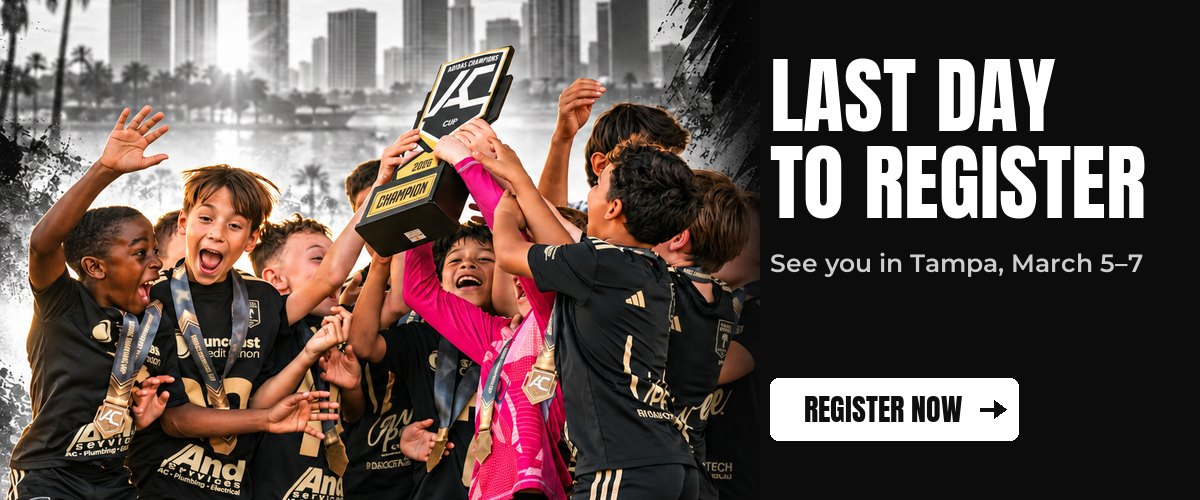
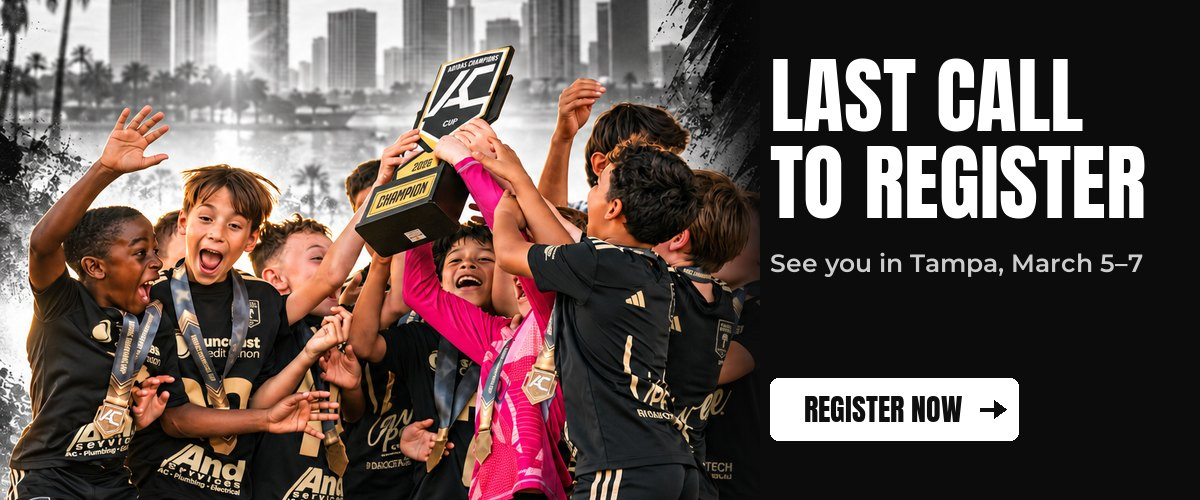
ACC: E16 y SMS 3-6 sin fecha de cierre (05-11)

Changed region(s): [[0.7708, 0.12, 0.925, 0.27]]

diff --git a/index.html b/index.html
@@ -72,7 +72,7 @@ footer{margin-top:44px;color:var(--muted);font-size:14px;border-top:1px solid va
 
 <h2>Calendario</h2>
 <p class="lead" style="margin-top:0">Correos los miércoles hasta diciembre (Miami Classic tiene envíos programados los martes y jueves hasta el 24-nov a la misma base) y los martes desde enero; en las dos últimas semanas, dos por semana. La inscripción cierra 21 días antes del torneo, como en 2026. Cada SMS sale el día siguiente a un correo clave. Sin envíos en Acción de Gracias ni del 16 de diciembre al 4 de enero.</p>
-<div class="tabla"><table class="cal"><tbody><tr class="cab"><td>Fecha</td><td>Canal</td><td>Pieza</td><td>Asunto / texto</td><td class="num2">Se envía a</td></tr><tr class="email"><td class="fn">miércoles 28 oct 2026</td><td><span class="chip email">Email</span></td><td>1. Apertura de inscripciones</td><td class="as">Adidas Champions Cup 2027: registration is open</td><td class="num2">~1.800</td></tr><tr class="sms"><td class="fn">jueves 29 oct 2026</td><td><span class="chip sms">SMS</span></td><td>SMS 1</td><td class="as">Adidas Champions Cup 2027 registration is open! Tampa, March 5-7. Register your team:</td><td class="num2">564</td></tr><tr class="email"><td class="fn">miércoles 4 nov 2026</td><td><span class="chip email">Email</span></td><td>2. Recuerdo de 2026 (fotos reales)</td><td class="as">Relive the 2026 Adidas Champions Cup</td><td class="num2">~1.800</td></tr><tr class="email"><td class="fn">miércoles 11 nov 2026</td><td><span class="chip email">Email</span></td><td>3. 5 razones (para coaches y directores)</td><td class="as">5 reasons coaches choose the Champions Cup</td><td class="num2">~1.800</td></tr><tr class="email"><td class="fn">miércoles 18 nov 2026</td><td><span class="chip email">Email</span></td><td>4. Equipos femeninos</td><td class="as">Girls teams: your stage in Tampa</td><td class="num2">~1.800</td></tr><tr class="email"><td class="fn">miércoles 2 dic 2026</td><td><span class="chip email">Email</span></td><td>5. Más que un torneo (experiencia 360°)</td><td class="as">Not just a tournament: a full weekend in Tampa</td><td class="num2">~1.800</td></tr><tr class="email"><td class="fn">miércoles 9 dic 2026</td><td><span class="chip email">Email</span></td><td>6. Clubes que jugaron en 2026 (prueba social)</td><td class="as">The clubs that played Tampa in 2026</td><td class="num2">~1.800</td></tr><tr class="sms"><td class="fn">jueves 10 dic 2026</td><td><span class="chip sms">SMS</span></td><td>SMS 2</td><td class="as">Adidas Champions Cup, Tampa, Mar 5-7: play the best teams in Florida. Register:</td><td class="num2">564</td></tr><tr class="email"><td class="fn">miércoles 16 dic 2026</td><td><span class="chip email">Email</span></td><td>7. Las canchas</td><td class="as">Where you will play: the 2027 fields</td><td class="num2">~1.800</td></tr><tr class="email"><td class="fn">martes 5 ene 2027</td><td><span class="chip email">Email</span></td><td>8. Planear la temporada de primavera</td><td class="as">Plan your spring: March 5–7 in Tampa</td><td class="num2">~1.800</td></tr><tr class="email"><td class="fn">martes 12 ene 2027</td><td><span class="chip email">Email</span></td><td>9. Los mejores equipos de Florida (competencia)</td><td class="as">Play against the best teams in Florida</td><td class="num2">~1.800</td></tr><tr class="sms"><td class="fn">miércoles 13 ene 2027</td><td><span class="chip sms">SMS</span></td><td>SMS 3</td><td class="as">One month left to register for the Adidas Champions Cup in Tampa, Mar 5-7:</td><td class="num2">564</td></tr><tr class="email"><td class="fn">martes 19 ene 2027</td><td><span class="chip email">Email</span></td><td>10. Foco U8–U12 (7v7 y 9v9)</td><td class="as">U8–U12: 7v7 and 9v9 at the Champions Cup</td><td class="num2">~1.800</td></tr><tr class="email"><td class="fn">martes 26 ene 2027</td><td><span class="chip email">Email</span></td><td>11. Foco U13–U19 (11v11)</td><td class="as">U13–U19: 11v11 in Tampa this March</td><td class="num2">~1.800</td></tr><tr class="email"><td class="fn">jueves 28 ene 2027</td><td><span class="chip email">Email</span></td><td>12. Quedan 2 semanas</td><td class="as">2 weeks left to register</td><td class="num2">~1.800</td></tr><tr class="sms"><td class="fn">viernes 29 ene 2027</td><td><span class="chip sms">SMS</span></td><td>SMS 4</td><td class="as">2 weeks left! Adidas Champions Cup registration closes Feb 12. Register:</td><td class="num2">564</td></tr><tr class="email"><td class="fn">martes 2 feb 2027</td><td><span class="chip email">Email</span></td><td>13. Cómo es el fin de semana</td><td class="as">What your weekend in Tampa looks like</td><td class="num2">~1.800</td></tr><tr class="email"><td class="fn">lunes 8 feb 2027</td><td><span class="chip email">Email</span></td><td>14. Queda 1 semana</td><td class="as">1 week left: registration closes February 12</td><td class="num2">~1.800</td></tr><tr class="sms"><td class="fn">martes 9 feb 2027</td><td><span class="chip sms">SMS</span></td><td>SMS 5</td><td class="as">1 week left to register for the Adidas Champions Cup (Tampa, Mar 5-7):</td><td class="num2">564</td></tr><tr class="email"><td class="fn">miércoles 10 feb 2027</td><td><span class="chip email">Email</span></td><td>15. Último aviso (48 horas)</td><td class="as">Last call: 48 hours to register</td><td class="num2">~1.800</td></tr><tr class="email"><td class="fn">viernes 12 feb 2027</td><td><span class="chip email">Email</span></td><td>16. Cierra hoy</td><td class="as">Registration closes today</td><td class="num2">~1.800</td></tr><tr class="sms"><td class="fn">viernes 12 feb 2027</td><td><span class="chip sms">SMS</span></td><td>SMS 6</td><td class="as">Last day to register for the Adidas Champions Cup, Tampa, Mar 5-7:</td><td class="num2">564</td></tr></tbody></table></div>
+<div class="tabla"><table class="cal"><tbody><tr class="cab"><td>Fecha</td><td>Canal</td><td>Pieza</td><td>Asunto / texto</td><td class="num2">Se envía a</td></tr><tr class="email"><td class="fn">miércoles 28 oct 2026</td><td><span class="chip email">Email</span></td><td>1. Apertura de inscripciones</td><td class="as">Adidas Champions Cup 2027: registration is open</td><td class="num2">~1.800</td></tr><tr class="sms"><td class="fn">jueves 29 oct 2026</td><td><span class="chip sms">SMS</span></td><td>SMS 1</td><td class="as">Adidas Champions Cup 2027 registration is open! Tampa, March 5-7. Register your team:</td><td class="num2">564</td></tr><tr class="email"><td class="fn">miércoles 4 nov 2026</td><td><span class="chip email">Email</span></td><td>2. Recuerdo de 2026 (fotos reales)</td><td class="as">Relive the 2026 Adidas Champions Cup</td><td class="num2">~1.800</td></tr><tr class="email"><td class="fn">miércoles 11 nov 2026</td><td><span class="chip email">Email</span></td><td>3. 5 razones (para coaches y directores)</td><td class="as">5 reasons coaches choose the Champions Cup</td><td class="num2">~1.800</td></tr><tr class="email"><td class="fn">miércoles 18 nov 2026</td><td><span class="chip email">Email</span></td><td>4. Equipos femeninos</td><td class="as">Girls teams: your stage in Tampa</td><td class="num2">~1.800</td></tr><tr class="email"><td class="fn">miércoles 2 dic 2026</td><td><span class="chip email">Email</span></td><td>5. Más que un torneo (experiencia 360°)</td><td class="as">Not just a tournament: a full weekend in Tampa</td><td class="num2">~1.800</td></tr><tr class="email"><td class="fn">miércoles 9 dic 2026</td><td><span class="chip email">Email</span></td><td>6. Clubes que jugaron en 2026 (prueba social)</td><td class="as">The clubs that played Tampa in 2026</td><td class="num2">~1.800</td></tr><tr class="sms"><td class="fn">jueves 10 dic 2026</td><td><span class="chip sms">SMS</span></td><td>SMS 2</td><td class="as">Adidas Champions Cup, Tampa, Mar 5-7: play the best teams in Florida. Register:</td><td class="num2">564</td></tr><tr class="email"><td class="fn">miércoles 16 dic 2026</td><td><span class="chip email">Email</span></td><td>7. Las canchas</td><td class="as">Where you will play: the 2027 fields</td><td class="num2">~1.800</td></tr><tr class="email"><td class="fn">martes 5 ene 2027</td><td><span class="chip email">Email</span></td><td>8. Planear la temporada de primavera</td><td class="as">Plan your spring: March 5–7 in Tampa</td><td class="num2">~1.800</td></tr><tr class="email"><td class="fn">martes 12 ene 2027</td><td><span class="chip email">Email</span></td><td>9. Los mejores equipos de Florida (competencia)</td><td class="as">Play against the best teams in Florida</td><td class="num2">~1.800</td></tr><tr class="sms"><td class="fn">miércoles 13 ene 2027</td><td><span class="chip sms">SMS</span></td><td>SMS 3</td><td class="as">Spots are filling up for the Adidas Champions Cup in Tampa, Mar 5-7. Register:</td><td class="num2">564</td></tr><tr class="email"><td class="fn">martes 19 ene 2027</td><td><span class="chip email">Email</span></td><td>10. Foco U8–U12 (7v7 y 9v9)</td><td class="as">U8–U12: 7v7 and 9v9 at the Champions Cup</td><td class="num2">~1.800</td></tr><tr class="email"><td class="fn">martes 26 ene 2027</td><td><span class="chip email">Email</span></td><td>11. Foco U13–U19 (11v11)</td><td class="as">U13–U19: 11v11 in Tampa this March</td><td class="num2">~1.800</td></tr><tr class="email"><td class="fn">jueves 28 ene 2027</td><td><span class="chip email">Email</span></td><td>12. Quedan 2 semanas</td><td class="as">2 weeks left to register</td><td class="num2">~1.800</td></tr><tr class="sms"><td class="fn">viernes 29 ene 2027</td><td><span class="chip sms">SMS</span></td><td>SMS 4</td><td class="as">Adidas Champions Cup registration is closing soon. Tampa, Mar 5-7. Register:</td><td class="num2">564</td></tr><tr class="email"><td class="fn">martes 2 feb 2027</td><td><span class="chip email">Email</span></td><td>13. Cómo es el fin de semana</td><td class="as">What your weekend in Tampa looks like</td><td class="num2">~1.800</td></tr><tr class="email"><td class="fn">lunes 8 feb 2027</td><td><span class="chip email">Email</span></td><td>14. Queda 1 semana</td><td class="as">1 week left: registration closes February 12</td><td class="num2">~1.800</td></tr><tr class="sms"><td class="fn">martes 9 feb 2027</td><td><span class="chip sms">SMS</span></td><td>SMS 5</td><td class="as">Final days to register for the Adidas Champions Cup (Tampa, Mar 5-7):</td><td class="num2">564</td></tr><tr class="email"><td class="fn">miércoles 10 feb 2027</td><td><span class="chip email">Email</span></td><td>15. Último aviso (48 horas)</td><td class="as">Last call: 48 hours to register</td><td class="num2">~1.800</td></tr><tr class="email"><td class="fn">viernes 12 feb 2027</td><td><span class="chip email">Email</span></td><td>16. Último llamado (sin fecha de cierre, 05-11)</td><td class="as">Last call to bring your team to Tampa</td><td class="num2">~1.800</td></tr><tr class="sms"><td class="fn">viernes 12 feb 2027</td><td><span class="chip sms">SMS</span></td><td>SMS 6</td><td class="as">Last call! Adidas Champions Cup registration is closing. Tampa, Mar 5-7:</td><td class="num2">564</td></tr></tbody></table></div>
 
 <h2>Correos por aprobar (15)</h2>
 <div class="caja ya"><b>Ya aprobados:</b> E16, S1, S3–S6 (no hace falta volver a verlos; la aprobación queda guardada para el montaje).</div>
